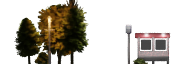
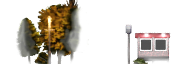
fixed image being lit incorrectly

diff --git a/public/script/sketch.js b/public/script/sketch.js
@@ -13,8 +13,8 @@ let moon;
 //? Other Global Variables
 let globalFog = { r: 200, g: 200, b: 200, a: 255, l: 0 };
 let nextFog = { r: 200, g: 200, b: 200, a: 255, l: 0 };
-// let weatherType = 1;
-let weatherType = Math.round(Math.random() * 3);
+let weatherType = 1;
+// let weatherType = Math.round(Math.random() * 3);
 let particleLimit = 2000;
 let numberOfParticles;
 let backgroundAlpha = 255;
@@ -29,9 +29,6 @@ function preload() {
 
     sprites.background = loadImage(`public/img/backgroundMaster.png`);
     sprites.foreground = loadImage(`public/img/foregroundMaster.png`);
-
-    sprites.lampCombindedOff = loadImage(`public/img/lampCombindedOff.png`);
-    sprites.lampCombindedOn = loadImage(`public/img/lampCombindedOn.png`);
 
     sprites.sceneOff = loadImage(`public/img/sceneOff.png`);
     sprites.sceneOn = loadImage(`public/img/sceneOn.png`);

diff --git a/public/script/world.js b/public/script/world.js
@@ -3,15 +3,6 @@ function worldRenderer() {
     tint(globalFog.r, globalFog.g, globalFog.b);
     image(sprites.background, offset, windowHeight - spriteDimentions * 1.5, spriteDimentions * 4, spriteDimentions * 1.5);
     if (!isMobile) {
-        if (zoomLevel === 256) {
-            image(
-                sprites.background,
-                spriteDimentions * 5 + offset,
-                windowHeight - spriteDimentions * 1.5,
-                spriteDimentions * 4,
-                spriteDimentions * 1.5
-            );
-        }
         image(sprites.background, spriteDimentions * 3 + offset, windowHeight - spriteDimentions * 1.5, spriteDimentions * 4, spriteDimentions * 1.5);
 
         if (weatherType === 3) {

diff --git a/public/style/index_style.css b/public/style/index_style.css
@@ -175,7 +175,9 @@ main {
 img {
     position: absolute;
     bottom: 0;
-    left: 1000px;
-    width: 512px;
+    left: 0px;
+    width: 1024px;
     image-rendering: pixelated;
+    overflow: hidden;
+    opacity: 50%;
 }

diff --git a/index.html b/index.html
@@ -21,6 +21,7 @@
 
 <body>
     <div id="canvas-container"></div>
+
     <main>
         <span id="welcome" onclick="toggleSettings()">felixwri.github.io</span>
         <div id="settings-container">
